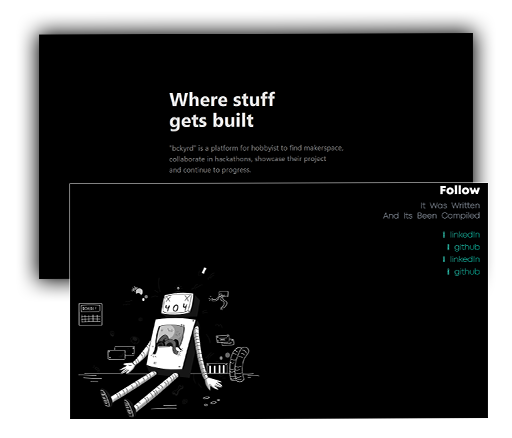
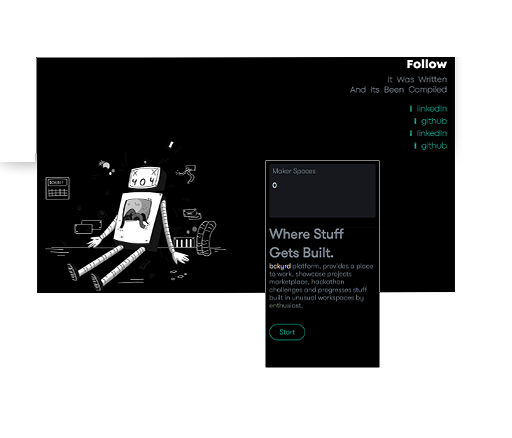
adapting grid on mission approach

diff --git a/work/res/host.css b/work/res/host.css
@@ -409,28 +409,9 @@ section .mid video {
 }
 
 
-/* *FLEX HOLIZONTAL* * */
-
-section div.col-section {
-    width: 23.1%;
-    height: 65vh;
-    min-height: max-content !important;
-    border-radius: var(--rad);
-    text-align: center;
-    background-color: var(--ltr-clr);
-}
-
-section div.col-section p {
-    padding: 4vh;
-    padding-bottom: 0;
-    margin: 0;
-    text-align: justify;
-}
-
-
 /* * MASONRY GRID PORTIFOLIO DESIGN * */
 
-#portifolio__section .gallery-grid {
+.grid {
     width: 100%;
     display: flex;
     flex-direction: row;
@@ -439,7 +420,7 @@ section div.col-section p {
     margin-bottom: 0;
 }
 
-.gallery-grid .brick {
+.grid .brick {
     border: solid 2px var(--ltr-clr);
     width: 48.5%;
     height: 70vh;
@@ -448,10 +429,20 @@ section div.col-section p {
     margin-bottom: 2.5%;
     border-radius: 0.5vh;
     background-color: var(--ltr-clr);
+    text-align: center !important;
+    display: flex;
+    flex-direction: column;
+    justify-content: space-evenly;
 }
 
-.gallery-grid .brick:hover {
+.grid .brick:hover {
     border: solid 2px var(--neo);
+}
+
+.grid .brick p {
+    width: 40%;
+    text-align: justify;
+    margin: auto;
 }
 
 
@@ -621,13 +612,16 @@ section .fixed .col.r p {
     section#experience__section {
         margin-bottom: 10vh;
     }
-    .gallery-grid .brick {
+    .grid .brick {
         width: 100%;
         height: 40vh;
         margin-bottom: 6%;
     }
     h1.about_text {
         font-size: 3em;
+    }
+    .grid .brick p {
+        width: 80%;
     }
 }
 

diff --git a/platform/src/App.jsx b/platform/src/App.jsx
@@ -9,17 +9,6 @@ function App() {
           <p>Maker Spaces</p>
           <h4>0</h4>
         </span>
-        <span className="action">
-          <p>Maker Spaces</p>
-          <h4>0</h4>
-        </span>
-        <span className="action">
-          <p>Maker Spaces</p>
-          <h4>0</h4>
-        </span>
-      
-      
-       
       </header>
 
       <main className='content'>

diff --git a/platform/src/App.css b/platform/src/App.css
@@ -105,6 +105,7 @@ header {
 header .action {
     flex-direction: column;
     height: 22vh;
+    width: 94%;
     background: var(--bg-clr-2);
     border-radius: 6px;
     margin-bottom: 4vh;

diff --git a/work/index.php b/work/index.php
@@ -88,7 +88,7 @@
                 <h1><a href="https://github.com/h0zt/bckyrd">PotifoliO</a></h1>
                 <p>Big Picture Of Kinds Of Projects We Have Worked On <a class="active" href="pgs/blog.php?project_id=id">view more</a> </p>
             </div>
-            <div class="gallery-grid">
+            <div class="grid">
                 <div class="brick" style="background-image: url('etc/mgmt.png');">
                 </div>
                 <div class="brick" style="background-image: url('etc/pmodule.png');">
@@ -105,7 +105,7 @@
         <section id="event__section">
             <div class="mid" id="events">
                 <div>
-                    <p>Join the hobbyist Platform and work on desirable Projects from your workspace. <br><a href="https://work.bckyrd.io" class="active">Visit</a></p>
+                    <p>We are busy building a platform for hobbyist.  <a href="https://work.bckyrd.io" class="active">visit</a> </p>
                 </div>
             </div>
         </section>
@@ -113,25 +113,25 @@
 
 
         <!--OVERVIEW OF HOW WE WANNA WORK-->
-        <section id="approach__section">
+        <section id="portifolio__section">
             <div class="left-heading">
                 <a class="button" id="work" href="https://calendly.com/bckyrd-io/">Let's work</a>
                 <p>Our Approach to Collaborative Work To Avoid Compromise On Project. </p>
             </div>
-            <div class="max">
-                <div class="col-section">
+            <div class="grid">
+                <div class="brick">
                     <h2>FLEXIBLE</h2>
                     <p>break formal protocols to interact casually to better understand project needs.</p>
                 </div>
-                <div class="col-section">
+                <div class="brick">
                     <h2>TEAM</h2>
                     <p>scale our freelance team based on project milestones to ensure fast completion.</p>
                 </div>
-                <div class="col-section">
+                <div class="brick">
                     <h2>MODULAR</h2>
                     <p>utilize available resources and ideas to quickly iterate and improve on the prototype.</p>
                 </div>
-                <div class="col-section">
+                <div class="brick">
                     <h2>VALUE</h2>
                     <p>deliver the required outcome that profit us to constantly advance the build.</p>
                 </div>
